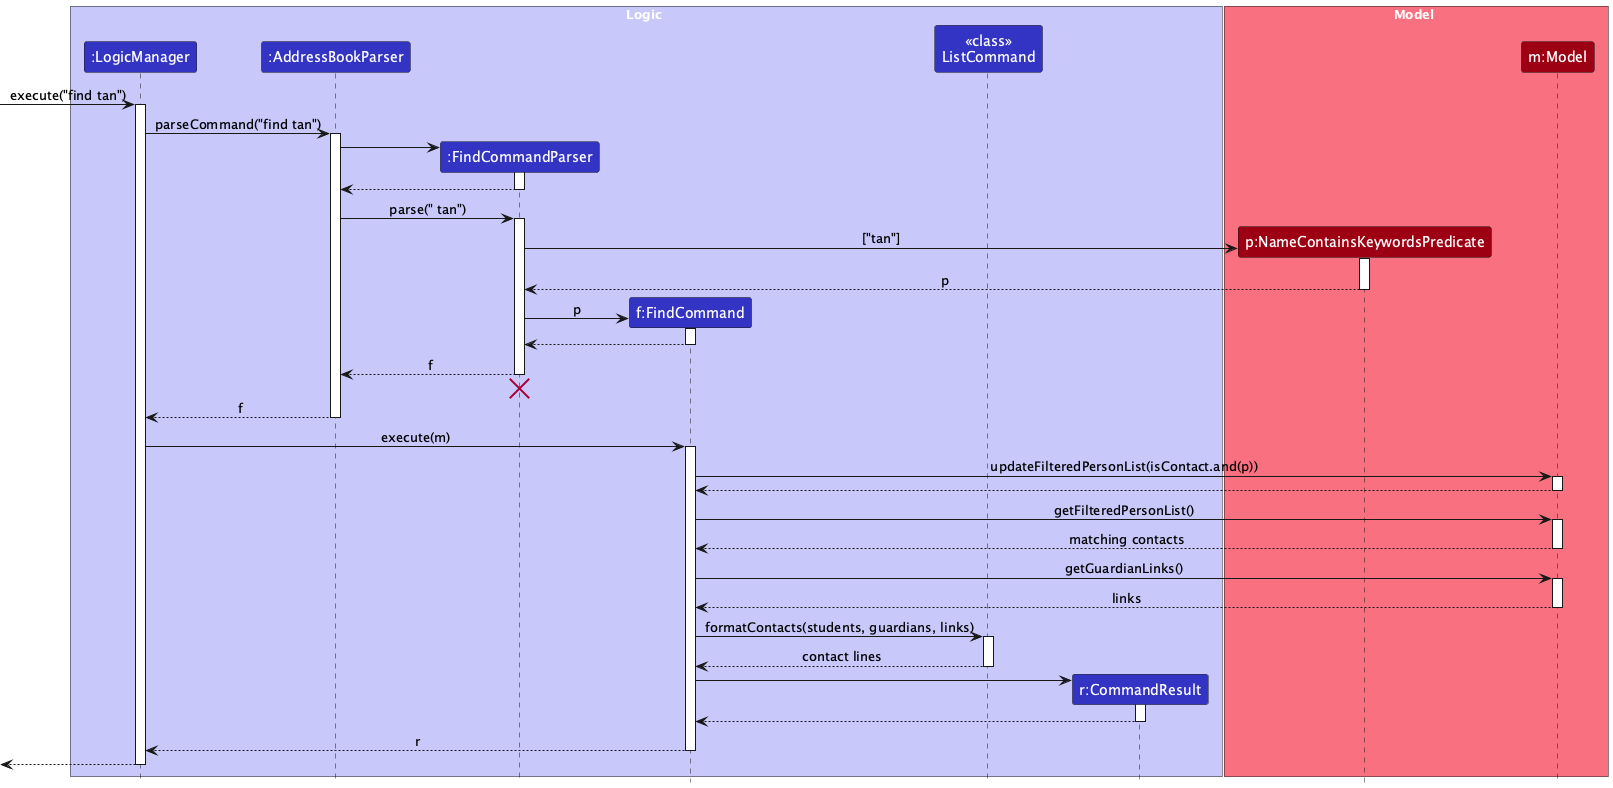
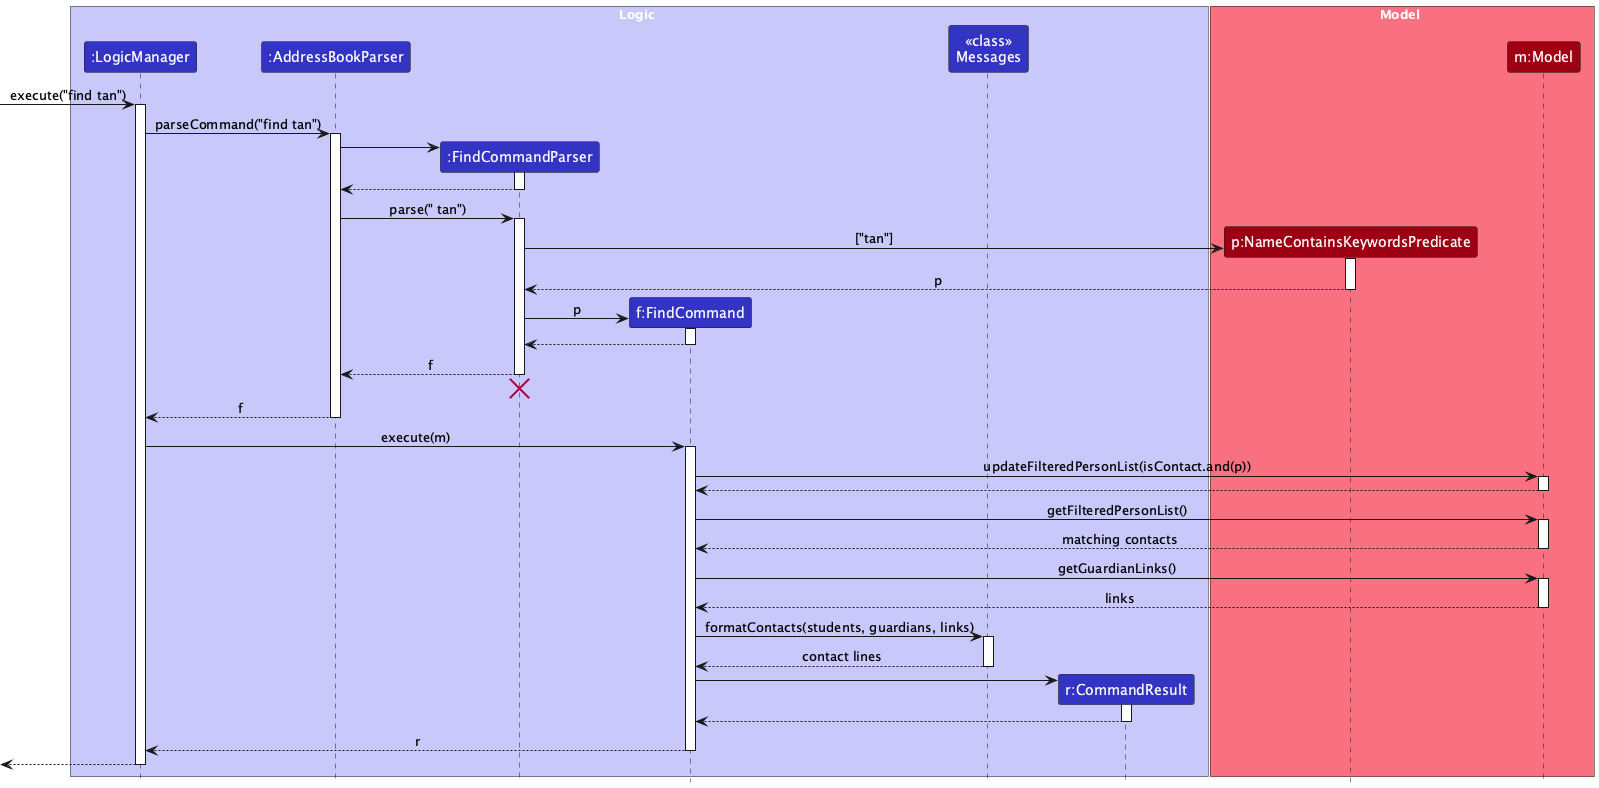
Move contact formatting into Messages
FindCommand called a helper on ListCommand, coupling two peer
commands and giving ListCommand a second reason to change. Messages
already holds user-facing formatting such as format(Person), so both
commands now share formatContacts from there.

diff --git a/src/main/java/seedu/address/logic/commands/ListCommand.java b/src/main/java/seedu/address/logic/commands/ListCommand.java
@@ -4,11 +4,9 @@ import static java.util.Objects.requireNonNull;
 import static seedu.address.model.Model.PREDICATE_SHOW_ALL_PERSONS;
 
 import java.util.List;
-import java.util.stream.Collectors;
-import java.util.stream.Stream;
 
+import seedu.address.logic.Messages;
 import seedu.address.model.Model;
-import seedu.address.model.link.GuardianLink;
 import seedu.address.model.person.ContactOrder;
 import seedu.address.model.person.Person;
 
@@ -22,8 +20,6 @@ public class ListCommand extends Command {
 
     public static final String MESSAGE_NO_CONTACTS = "No students or guardians yet.";
     public static final String MESSAGE_SUMMARY = "Listed %1$s and %2$s.";
-    public static final String MESSAGE_CONTACT = "%1$s %2$s, %3$s (%4$s: %5$s)";
-    public static final String NO_LINKS = "none";
 
     @Override
     public CommandResult execute(Model model) {
@@ -37,50 +33,8 @@ public class ListCommand extends Command {
         }
 
         return new CommandResult(String.format(MESSAGE_SUMMARY,
-                pluralize(students.size(), "student"), pluralize(guardians.size(), "guardian"))
-                + formatContacts(students, guardians, model.getGuardianLinks()));
+                Messages.pluralize(students.size(), "student"), Messages.pluralize(guardians.size(), "guardian"))
+                + Messages.formatContacts(students, guardians, model.getGuardianLinks()));
     }
 
-    /**
-     * Formats the students and guardians sections shown below a summary line, each contact with its linked IDs.
-     * Sections with no contacts are left out.
-     */
-    static String formatContacts(List<Person> students, List<Person> guardians, List<GuardianLink> links) {
-        StringBuilder message = new StringBuilder();
-        if (!students.isEmpty()) {
-            message.append("\nStudents:");
-            for (Person student : students) {
-                String studentId = ContactOrder.getContactId(student).orElseThrow();
-                Stream<String> guardianIds = links.stream()
-                        .filter(link -> link.getStudentId().toString().equals(studentId))
-                        .map(link -> link.getGuardianId().toString());
-                message.append('\n').append(formatContact(student, studentId, "guardians", guardianIds));
-            }
-        }
-        if (!guardians.isEmpty()) {
-            message.append("\nGuardians:");
-            for (Person guardian : guardians) {
-                String guardianId = ContactOrder.getContactId(guardian).orElseThrow();
-                Stream<String> studentIds = links.stream()
-                        .filter(link -> link.getGuardianId().toString().equals(guardianId))
-                        .map(link -> link.getStudentId().toString());
-                message.append('\n').append(formatContact(guardian, guardianId, "students", studentIds));
-            }
-        }
-        return message.toString();
-    }
-
-    /**
-     * Formats one contact line, e.g. {@code S1 Alex Tan, 91234567 (guardians: G1, G2)}.
-     */
-    private static String formatContact(Person contact, String contactId, String linkedLabel,
-            Stream<String> linkedIds) {
-        String linked = linkedIds.sorted(ContactOrder.ID_COMPARATOR).collect(Collectors.joining(", "));
-        return String.format(MESSAGE_CONTACT, contactId, contact.getName(), contact.getPhone(), linkedLabel,
-                linked.isEmpty() ? NO_LINKS : linked);
-    }
-
-    static String pluralize(int count, String noun) {
-        return count + " " + noun + (count == 1 ? "" : "s");
-    }
 }

diff --git a/src/main/java/seedu/address/logic/Messages.java b/src/main/java/seedu/address/logic/Messages.java
@@ -1,10 +1,13 @@
 package seedu.address.logic;
 
+import java.util.List;
 import java.util.Set;
 import java.util.stream.Collectors;
 import java.util.stream.Stream;
 
 import seedu.address.logic.parser.Prefix;
+import seedu.address.model.link.GuardianLink;
+import seedu.address.model.person.ContactOrder;
 import seedu.address.model.person.Person;
 
 /**
@@ -18,6 +21,8 @@ public class Messages {
     public static final String MESSAGE_PERSONS_LISTED_OVERVIEW = "%1$d person(s) listed!";
     public static final String MESSAGE_DUPLICATE_FIELDS =
                 "Multiple values specified for the following single-valued field(s): ";
+    public static final String MESSAGE_CONTACT = "%1$s %2$s, %3$s (%4$s: %5$s)";
+    public static final String NO_LINKS = "none";
 
     /**
      * Returns an error message indicating the duplicate prefixes.
@@ -46,6 +51,52 @@ public class Messages {
                 .append("; Tags: ");
         person.getTags().forEach(builder::append);
         return builder.toString();
+    }
+
+    /**
+     * Formats the students and guardians sections shown below a summary line, each contact with its linked IDs.
+     * Sections with no contacts are left out.
+     */
+    public static String formatContacts(List<Person> students, List<Person> guardians, List<GuardianLink> links) {
+        StringBuilder message = new StringBuilder();
+        if (!students.isEmpty()) {
+            message.append("\nStudents:");
+            for (Person student : students) {
+                String studentId = ContactOrder.getContactId(student).orElseThrow();
+                Stream<String> guardianIds = links.stream()
+                        .filter(link -> link.getStudentId().toString().equals(studentId))
+                        .map(link -> link.getGuardianId().toString());
+                message.append('\n').append(formatContact(student, studentId, "guardians", guardianIds));
+            }
+        }
+        if (!guardians.isEmpty()) {
+            message.append("\nGuardians:");
+            for (Person guardian : guardians) {
+                String guardianId = ContactOrder.getContactId(guardian).orElseThrow();
+                Stream<String> studentIds = links.stream()
+                        .filter(link -> link.getGuardianId().toString().equals(guardianId))
+                        .map(link -> link.getStudentId().toString());
+                message.append('\n').append(formatContact(guardian, guardianId, "students", studentIds));
+            }
+        }
+        return message.toString();
+    }
+
+    /**
+     * Formats one contact line, e.g. {@code S1 Alex Tan, 91234567 (guardians: G1, G2)}.
+     */
+    private static String formatContact(Person contact, String contactId, String linkedLabel,
+            Stream<String> linkedIds) {
+        String linked = linkedIds.sorted(ContactOrder.ID_COMPARATOR).collect(Collectors.joining(", "));
+        return String.format(MESSAGE_CONTACT, contactId, contact.getName(), contact.getPhone(), linkedLabel,
+                linked.isEmpty() ? NO_LINKS : linked);
+    }
+
+    /**
+     * Returns {@code count} followed by {@code noun}, adding "s" unless the count is 1, e.g. {@code 2 students}.
+     */
+    public static String pluralize(int count, String noun) {
+        return count + " " + noun + (count == 1 ? "" : "s");
     }
 
 }

diff --git a/src/main/java/seedu/address/logic/commands/FindCommand.java b/src/main/java/seedu/address/logic/commands/FindCommand.java
@@ -8,6 +8,7 @@ import java.util.logging.Logger;
 
 import seedu.address.commons.core.LogsCenter;
 import seedu.address.commons.util.ToStringBuilder;
+import seedu.address.logic.Messages;
 import seedu.address.model.Model;
 import seedu.address.model.person.ContactOrder;
 import seedu.address.model.person.NameContainsKeywordsPredicate;
@@ -58,8 +59,8 @@ public class FindCommand extends Command {
         }
 
         return new CommandResult(String.format(MESSAGE_SUMMARY,
-                ListCommand.pluralize(students.size(), "student"), ListCommand.pluralize(guardians.size(), "guardian"))
-                + ListCommand.formatContacts(students, guardians, model.getGuardianLinks()));
+                Messages.pluralize(students.size(), "student"), Messages.pluralize(guardians.size(), "guardian"))
+                + Messages.formatContacts(students, guardians, model.getGuardianLinks()));
     }
 
     @Override

diff --git a/docs/DeveloperGuide.md b/docs/DeveloperGuide.md
@@ -169,7 +169,7 @@ The sequence diagram below shows how `find tan` is executed.
 
 1. `FindCommandParser` splits the arguments on whitespace and wraps the keywords in a `NameContainsKeywordsPredicate`. A name matches if it contains any keyword as a whole word, ignoring case.
 1. `FindCommand#execute()` combines that predicate with a check that the person has a student or guardian ID, so legacy AB3 persons without an ID are never shown. It then updates the filtered person list in the `Model`.
-1. `FindCommand` splits the filtered list into students and guardians, gets the guardian links from the `Model`, and passes them to `ListCommand#formatContacts()`. Sharing this method keeps the output of `find` and `list` consistent.
+1. `FindCommand` splits the filtered list into students and guardians, gets the guardian links from the `Model`, and passes them to `Messages#formatContacts()`. `ListCommand` uses the same method, so `find` and `list` output stays consistent without either command depending on the other.
 1. If nothing matches, the result is `No students or guardians match your search.` instead.
 
 #### Design considerations:
